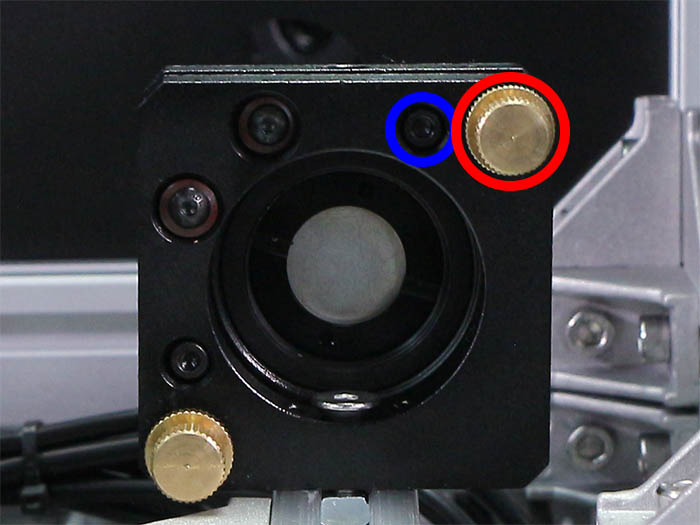
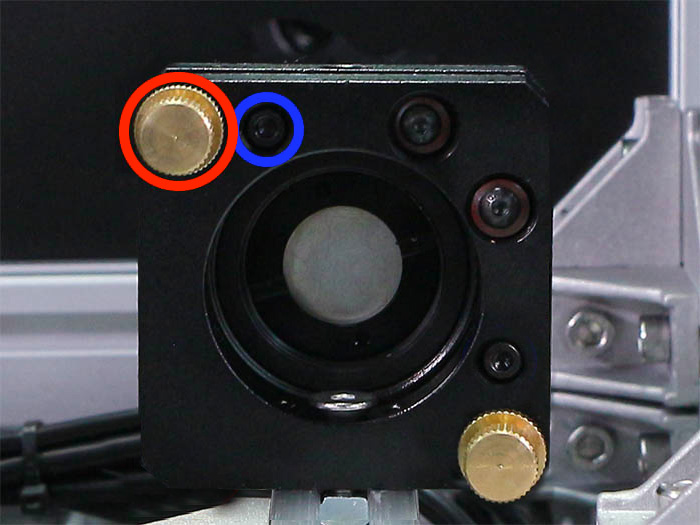
FIX:CO2光軸調整

diff --git a/JP/FABOOL_Laser_CO2/1912/manual/28-1.md b/JP/FABOOL_Laser_CO2/1912/manual/28-1.md
@@ -81,7 +81,7 @@
 赤で囲んだネジを押し出します。
 <img src="./images/28-1/020.jpg" alt="第1反射ミラー調整-20">
 
-横軸方向左側に傾きます。引っ張った場合は右方向に傾きます。
+横軸方向右側に傾きます。引っ張った場合は左方向に傾きます。
 <img src="./images/28-1/021.jpg" alt="第1反射ミラー調整-21">
 
 縦軸方向に傾ける場合は、もう1つのネジを動かします。赤で囲んだネジを押し出すと上側に傾きます。逆に、引っ張った場合は下方向に傾きます。
